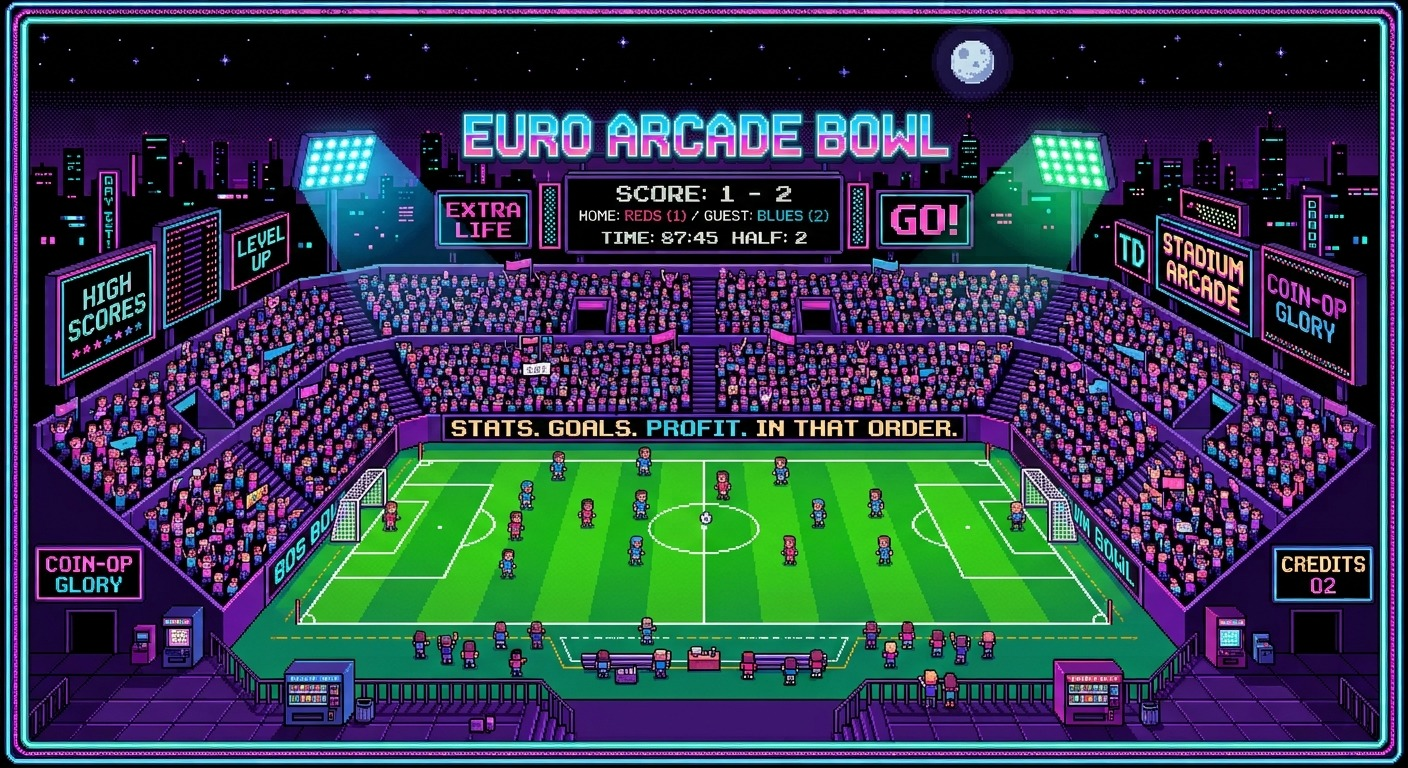
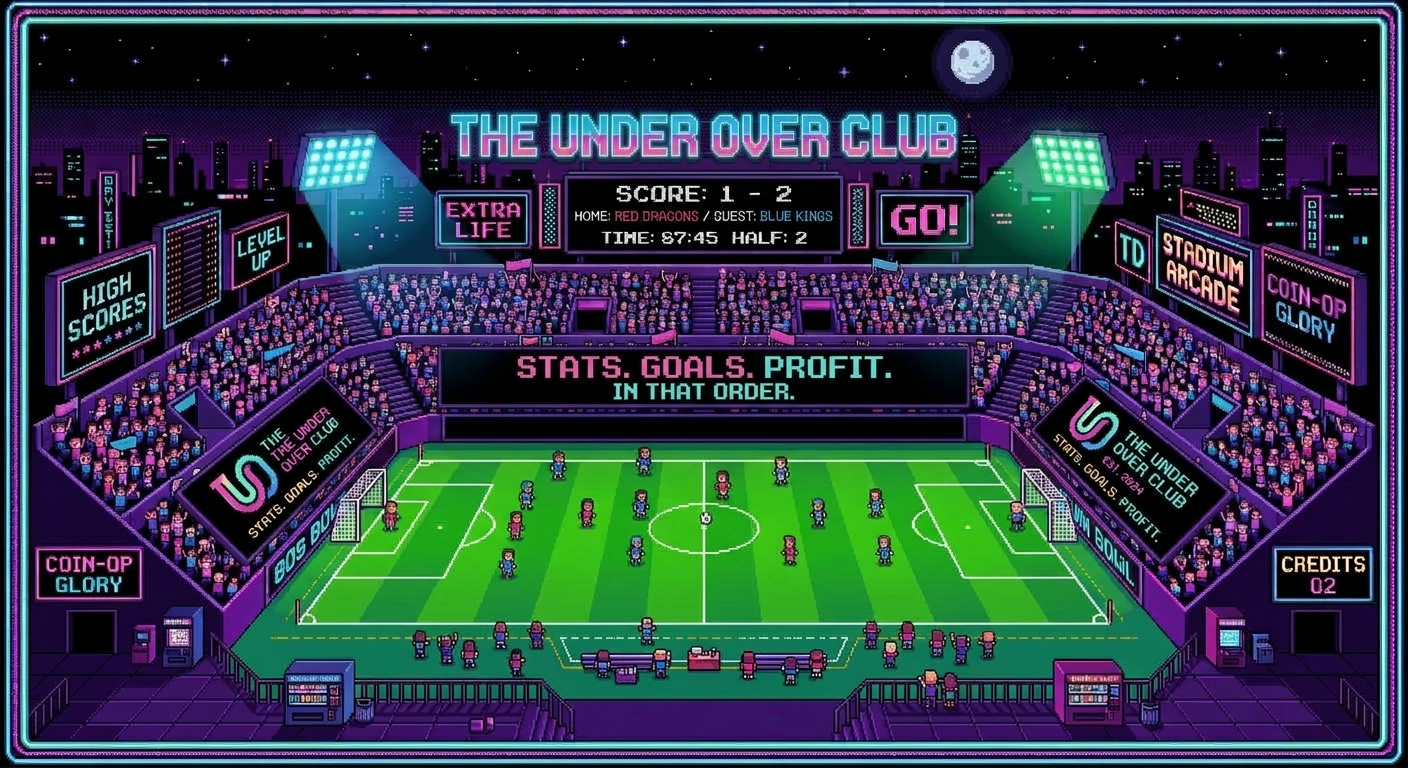
Update shared hero artwork

diff --git a/src/components/retro/RetroHero.tsx b/src/components/retro/RetroHero.tsx
@@ -21,8 +21,8 @@ export default function RetroHero({
       <Image
         className={styles.heroImage}
         src="/brand/euro-arcade-bowl.jpg"
-        alt="Retro pixel-art European football stadium at night with arcade scoreboards and The Under Over Club slogan"
-        width={1536}
+        alt="The Under Over Club pixel-art football stadium hero artwork"
+        width={1408}
         height={1024}
         priority
         sizes="(max-width: 900px) 100vw, calc(100vw - 280px)"
